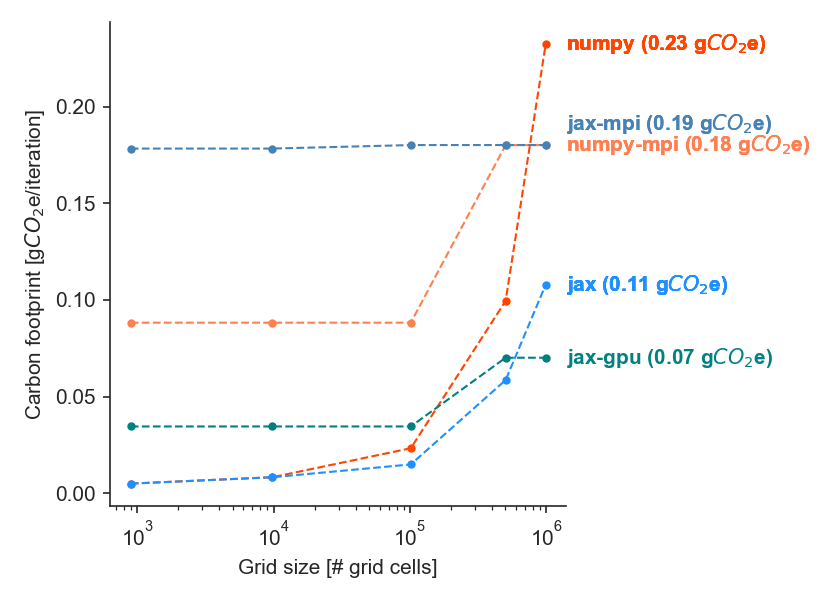
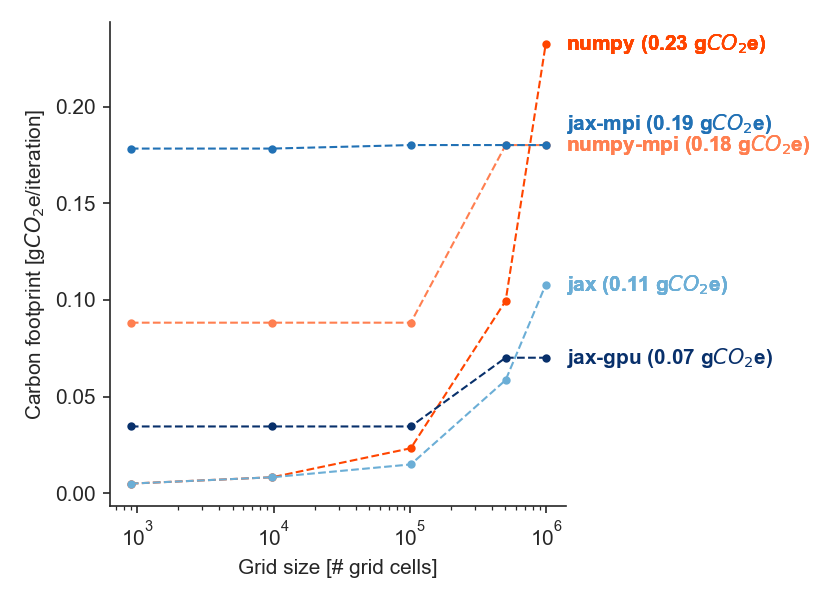
modified post processing

diff --git a/examples/plot_scale/rietholzbach/svat_oxygen18_monte_carlo/post_processing.py b/examples/plot_scale/rietholzbach/svat_oxygen18_monte_carlo/post_processing.py
@@ -32,7 +32,7 @@ def main(nsamples, transport_model_structure, split_size, sas_solver, tmp_dir):
         base_path = Path(__file__).parent
     age_max = "age_max_1500_days"
     nruns_hm = 10
-    metric_name = "KGE_multi"
+    metric_name = "KGE_perc"
     metric_for_optimization = f"optimized_with_{metric_name}_hm{nruns_hm}"
     tms = transport_model_structure.replace("_", " ")
     # directory of results

diff --git a/doc/plot_benchmarks.py b/doc/plot_benchmarks.py
@@ -14,9 +14,9 @@ sns.set_style("ticks")
 COMPONENT_COLORS = {
     "numpy": "orangered",
     "numpy-mpi": "coral",
-    "jax": "#deebf7",
-    "jax-mpi": "#6baed6",
-    "jax-gpu": "#081d58",
+    "jax": "#6baed6",
+    "jax-mpi": "#2171b5",
+    "jax-gpu": "#08306b",
 }
 
 

diff --git a/doc/plot_carbon_footprint.py b/doc/plot_carbon_footprint.py
@@ -14,9 +14,9 @@ sns.set_style("ticks")
 COMPONENT_COLORS = {
     "numpy": "orangered",
     "numpy-mpi": "coral",
-    "jax": "#deebf7",
-    "jax-mpi": "#6baed6",
-    "jax-gpu": "#081d58",
+    "jax": "#6baed6",
+    "jax-mpi": "#2171b5",
+    "jax-gpu": "#08306b",
 }
 
 
